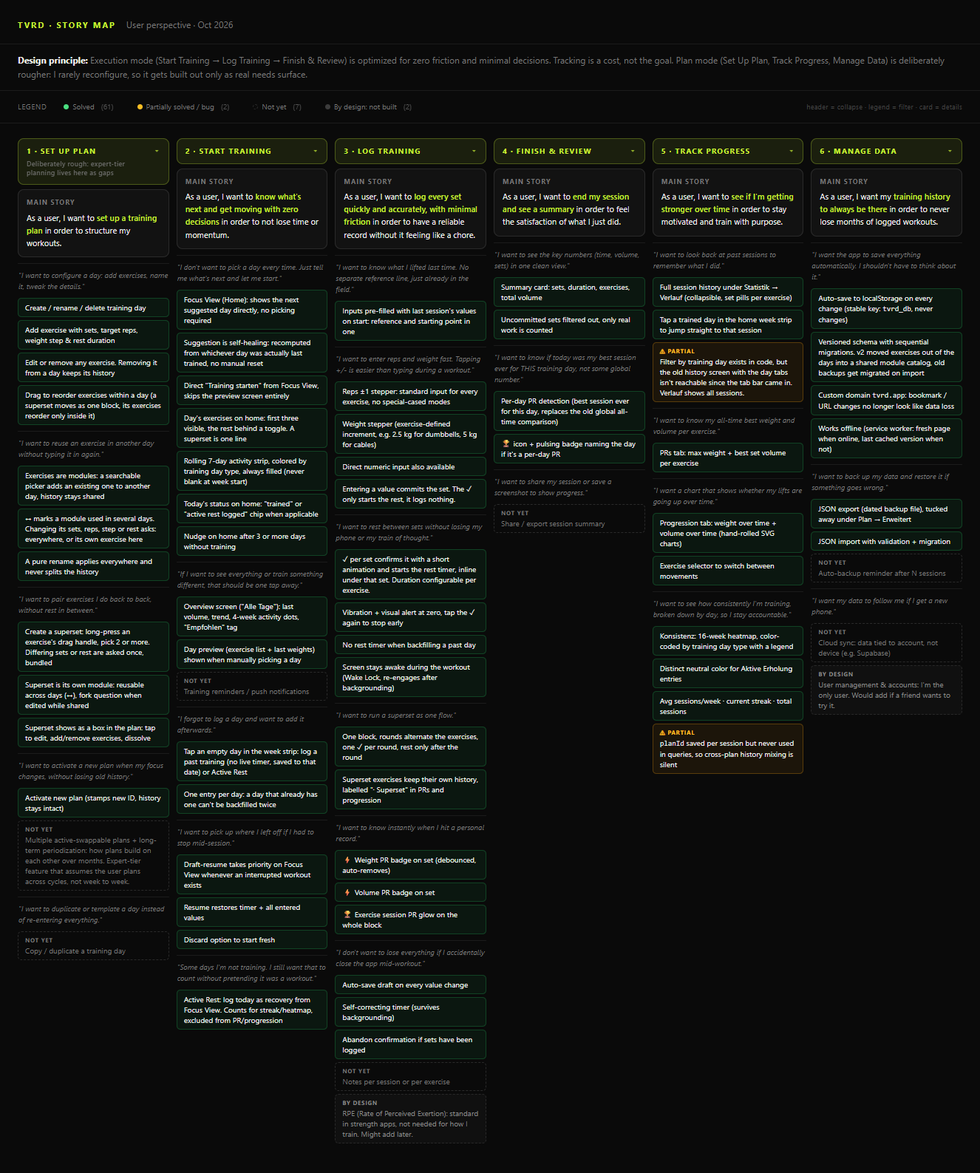
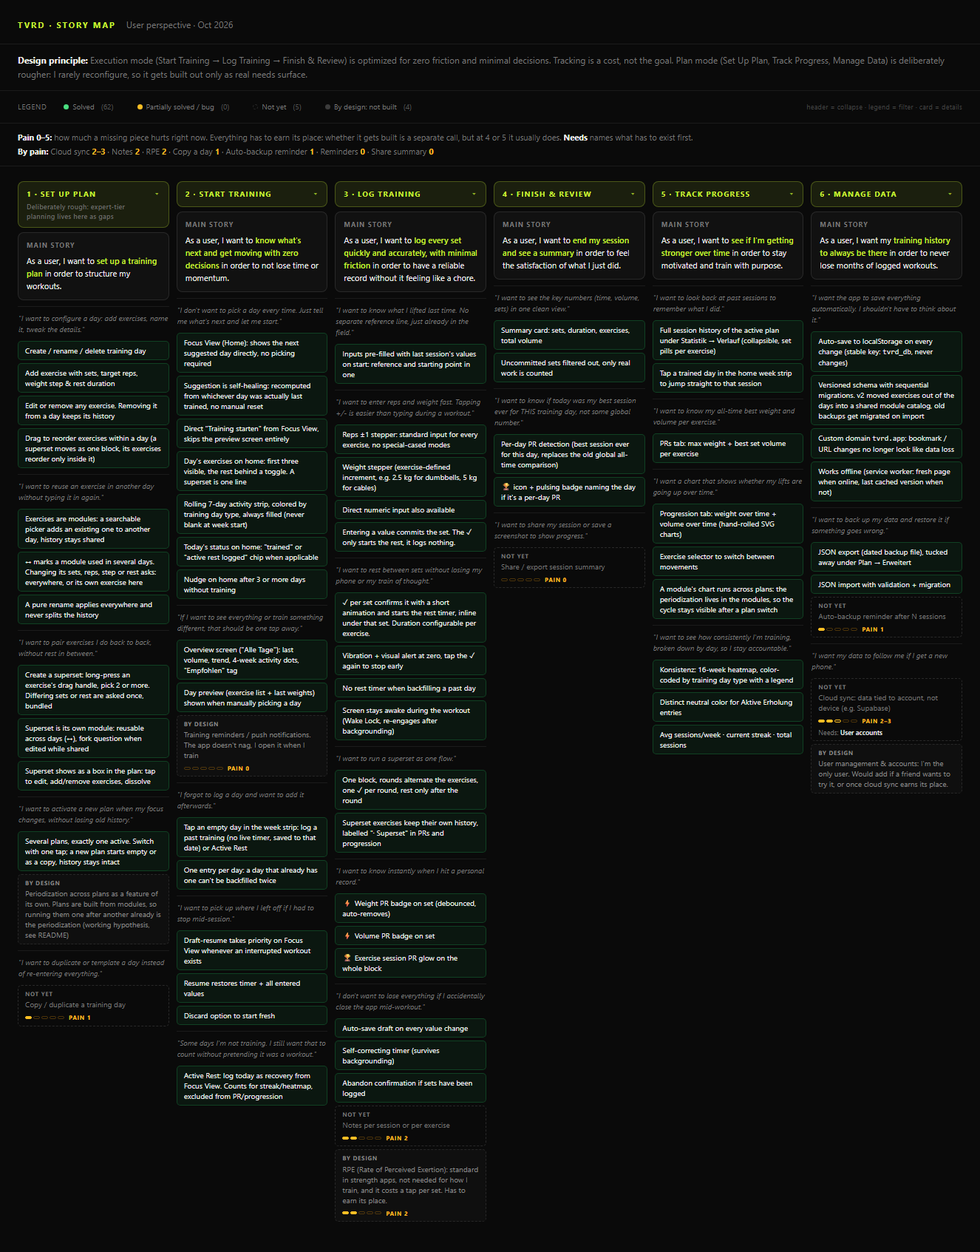
Working hypotheses, pain meter, progression across plans
- README: principle "Minimal input" replaces "Focus over features";
  "Good enough is perfect" now carries the pain scale (earn its place);
  new section "Working hypotheses" (commit by default, modules as
  building block, periodization via modules)
- Story map: pain meter 0-5 per open card, ranking bar, dependencies;
  reminders and cross-plan periodization by design; stale filter and
  planId cards removed; PNG re-rendered
- App: progression chart follows a module across plans

Changed region(s): [[0.0, 0.0, 0.9894, 0.988]]

diff --git a/docs/story-map.html b/docs/story-map.html
@@ -150,6 +150,25 @@
   .sm-modal-sub { font-size: 11px; color: var(--text-dim); font-style: italic; margin-bottom: 10px; line-height: 1.5; }
   .sm-modal-text { font-size: 13px; color: var(--text); line-height: 1.6; }
   .sm-modal-text code { background: var(--card); padding: 1px 5px; border-radius: 3px; font-size: 11px; }
+
+  /* ── Pain meter + dependencies (2026-10): data-pain="0..5" or "2-3", data-needs ── */
+  .pain { display: flex; align-items: center; gap: 2px; margin-top: 5px; font-size: 8px; font-weight: 700;
+    letter-spacing: .7px; text-transform: uppercase; color: var(--partial-text); }
+  .pain i { width: 9px; height: 4px; border-radius: 2px; border: 1px solid var(--partial-border); }
+  .pain i.on { background: var(--partial-text); border-color: var(--partial-text); }
+  .pain i.maybe { background: var(--partial-bg); border-color: var(--partial-text); }
+  .pain span { margin-left: 4px; }
+  .needs { margin-top: 3px; font-size: 9px; color: var(--text-dim); }
+  .needs b { color: var(--text); font-weight: 600; }
+  .sm-modal-text .pain { font-size: 10px; margin-top: 10px; }
+  .sm-modal-text .pain i { width: 14px; height: 6px; }
+  .sm-modal-text .needs { font-size: 11px; }
+  .pain-bar { padding: 10px 24px; border-bottom: 1px solid var(--border); font-size: 11px; color: var(--text-dim);
+    line-height: 1.7; }
+  .pain-bar b { color: var(--text); }
+  .pain-rank { cursor: pointer; white-space: nowrap; }
+  .pain-rank:hover { color: var(--text); }
+  .pain-rank em { font-style: normal; color: var(--partial-text); font-weight: 700; font-variant-numeric: tabular-nums; }
 </style>
 </head>
 <body>
@@ -170,6 +189,11 @@
   <span class="legend-item"><span class="ldot partial"></span>Partially solved / bug</span>
   <span class="legend-item"><span class="ldot gap"></span>Not yet</span>
   <span class="legend-item"><span class="ldot design"></span>By design: not built</span>
+</div>
+
+<div class="pain-bar">
+  <b>Pain 0–5:</b> how much a missing piece hurts right now. Everything has to earn its place: whether it gets built is a separate call, but at 4 or 5 it usually does. <b>Needs</b> names what has to exist first.
+  <div id="pain-ranking"></div>
 </div>
 
 <div class="map-scroll">
@@ -211,13 +235,13 @@
 
     <div class="sub-block">
       <div class="sub-story-text">"I want to activate a new plan when my focus changes, without losing old history."</div>
-      <div class="fc built">Activate new plan (stamps new ID, history stays intact)</div>
-      <div class="fc gap"><span class="tag">Not yet</span>Multiple active-swappable plans + long-term periodization: how plans build on each other over months. Expert-tier feature that assumes the user plans across cycles, not week to week.</div>
+      <div class="fc built">Several plans, exactly one active. Switch with one tap; a new plan starts empty or as a copy, history stays intact</div>
+      <div class="fc design"><span class="tag">By design</span>Periodization across plans as a feature of its own. Plans are built from modules, so running them one after another already is the periodization (working hypothesis, see README)</div>
     </div>
 
     <div class="sub-block">
       <div class="sub-story-text">"I want to duplicate or template a day instead of re-entering everything."</div>
-      <div class="fc gap"><span class="tag">Not yet</span>Copy / duplicate a training day</div>
+      <div class="fc gap" data-pain="1" data-short="Copy a day"><span class="tag">Not yet</span>Copy / duplicate a training day</div>
     </div>
   </div>
 
@@ -245,7 +269,7 @@
       <div class="sub-story-text">"If I want to see everything or train something different, that should be one tap away."</div>
       <div class="fc built">Overview screen ("Alle Tage"): last volume, trend, 4-week activity dots, "Empfohlen" tag</div>
       <div class="fc built">Day preview (exercise list + last weights) shown when manually picking a day</div>
-      <div class="fc gap"><span class="tag">Not yet</span>Training reminders / push notifications</div>
+      <div class="fc design" data-pain="0" data-short="Reminders"><span class="tag">By design</span>Training reminders / push notifications. The app doesn't nag, I open it when I train</div>
     </div>
 
     <div class="sub-block">
@@ -315,8 +339,8 @@
       <div class="fc built">Auto-save draft on every value change</div>
       <div class="fc built">Self-correcting timer (survives backgrounding)</div>
       <div class="fc built">Abandon confirmation if sets have been logged</div>
-      <div class="fc gap"><span class="tag">Not yet</span>Notes per session or per exercise</div>
-      <div class="fc design"><span class="tag">By design</span>RPE (Rate of Perceived Exertion): standard in strength apps, not needed for how I train. Might add later.</div>
+      <div class="fc gap" data-pain="2" data-short="Notes"><span class="tag">Not yet</span>Notes per session or per exercise</div>
+      <div class="fc design" data-pain="2" data-short="RPE"><span class="tag">By design</span>RPE (Rate of Perceived Exertion): standard in strength apps, not needed for how I train, and it costs a tap per set. Has to earn its place.</div>
     </div>
   </div>
 
@@ -343,7 +367,7 @@
 
     <div class="sub-block">
       <div class="sub-story-text">"I want to share my session or save a screenshot to show progress."</div>
-      <div class="fc gap"><span class="tag">Not yet</span>Share / export session summary</div>
+      <div class="fc gap" data-pain="0" data-short="Share summary"><span class="tag">Not yet</span>Share / export session summary</div>
     </div>
   </div>
 
@@ -358,9 +382,8 @@
 
     <div class="sub-block">
       <div class="sub-story-text">"I want to look back at past sessions to remember what I did."</div>
-      <div class="fc built">Full session history under Statistik → Verlauf (collapsible, set pills per exercise)</div>
+      <div class="fc built">Full session history of the active plan under Statistik → Verlauf (collapsible, set pills per exercise)</div>
       <div class="fc built">Tap a trained day in the home week strip to jump straight to that session</div>
-      <div class="fc partial"><span class="tag">⚠ Partial</span>Filter by training day exists in code, but the old history screen with the day tabs isn't reachable since the tab bar came in. Verlauf shows all sessions.</div>
     </div>
 
     <div class="sub-block">
@@ -372,6 +395,7 @@
       <div class="sub-story-text">"I want a chart that shows whether my lifts are going up over time."</div>
       <div class="fc built">Progression tab: weight over time + volume over time (hand-rolled SVG charts)</div>
       <div class="fc built">Exercise selector to switch between movements</div>
+      <div class="fc built">A module's chart runs across plans: the periodization lives in the modules, so the cycle stays visible after a plan switch</div>
     </div>
 
     <div class="sub-block">
@@ -379,7 +403,6 @@
       <div class="fc built">Konsistenz: 16-week heatmap, color-coded by training day type with a legend</div>
       <div class="fc built">Distinct neutral color for Aktive Erholung entries</div>
       <div class="fc built">Avg sessions/week · current streak · total sessions</div>
-      <div class="fc partial"><span class="tag">⚠ Partial</span><code>planId</code> saved per session but never used in queries, so cross-plan history mixing is silent</div>
     </div>
   </div>
 
@@ -404,13 +427,13 @@
       <div class="sub-story-text">"I want to back up my data and restore it if something goes wrong."</div>
       <div class="fc built">JSON export (dated backup file), tucked away under Plan → Erweitert</div>
       <div class="fc built">JSON import with validation + migration</div>
-      <div class="fc gap"><span class="tag">Not yet</span>Auto-backup reminder after N sessions</div>
+      <div class="fc gap" data-pain="1" data-short="Auto-backup reminder"><span class="tag">Not yet</span>Auto-backup reminder after N sessions</div>
     </div>
 
     <div class="sub-block">
       <div class="sub-story-text">"I want my data to follow me if I get a new phone."</div>
-      <div class="fc gap"><span class="tag">Not yet</span>Cloud sync: data tied to account, not device (e.g. Supabase)</div>
-      <div class="fc design"><span class="tag">By design</span>User management &amp; accounts: I'm the only user. Would add if a friend wants to try it.</div>
+      <div class="fc gap" data-pain="2-3" data-short="Cloud sync" data-needs="User accounts"><span class="tag">Not yet</span>Cloud sync: data tied to account, not device (e.g. Supabase)</div>
+      <div class="fc design"><span class="tag">By design</span>User management &amp; accounts: I'm the only user. Would add if a friend wants to try it, or once cloud sync earns its place.</div>
     </div>
   </div>
 </div>
@@ -524,6 +547,37 @@
     if (e.target === modal || e.target.classList.contains('sm-modal-close')) closeModal();
   });
   document.addEventListener('keydown', e => { if (e.key === 'Escape') closeModal(); });
+
+  // ── Pain meter + dependencies, rendered from data-pain / data-needs ──
+  // data-pain is 0..5 or a range like "2-3" (honest when unsure); the range
+  // shows its upper part as a lighter segment and ranks by the upper value.
+  const painRange = v => { const [lo, hi] = String(v).split('-').map(Number); return [lo, hi == null ? lo : hi]; };
+  const painCards = [...document.querySelectorAll('.fc[data-pain]')];
+  painCards.forEach(fc => {
+    const [lo, hi] = painRange(fc.dataset.pain);
+    const m = document.createElement('div');
+    m.className = 'pain';
+    m.setAttribute('aria-label', 'Pain ' + fc.dataset.pain.replace('-', ' to ') + ' of 5');
+    m.innerHTML = [0, 1, 2, 3, 4].map(i => '<i class="' + (i < lo ? 'on' : i < hi ? 'maybe' : '') + '"></i>').join('') +
+      '<span>Pain ' + fc.dataset.pain.replace('-', '–') + '</span>';
+    fc.appendChild(m);
+    if (fc.dataset.needs) {
+      const n = document.createElement('div');
+      n.className = 'needs';
+      n.innerHTML = 'Needs: <b>' + fc.dataset.needs + '</b>';
+      fc.appendChild(n);
+    }
+  });
+  const ranking = document.getElementById('pain-ranking');
+  if (ranking) {
+    const sorted = painCards.slice().sort((a, b) => painRange(b.dataset.pain)[1] - painRange(a.dataset.pain)[1] || painRange(b.dataset.pain)[0] - painRange(a.dataset.pain)[0]);
+    ranking.innerHTML = '<b>By pain:</b> ' + sorted.map((fc, i) =>
+      '<span class="pain-rank" data-i="' + painCards.indexOf(fc) + '">' + fc.dataset.short + ' <em>' + fc.dataset.pain.replace('-', '–') + '</em></span>').join(' · ');
+    ranking.addEventListener('click', e => {
+      const r = e.target.closest('.pain-rank');
+      if (r) openModal(painCards[+r.dataset.i]);
+    });
+  }
 
   // Wire each card: hover = tooltip, click = detail
   document.querySelectorAll('.fc').forEach(fc => {

diff --git a/index.html b/index.html
@@ -2185,8 +2185,9 @@ function getTodayEntries() {
 // ab, sie parallel zu tracken noch mehr. Wer andere Pläne sehen will, wechselt.
 // Aktive Erholung ist kein Training eines Plans und gilt planübergreifend
 // (Leo). Ebenfalls planübergreifend, weil sie zur Übung gehören, nicht zum
-// Plan: PR-Prüfung im Training und Vorwerte (Modul-History), dazu der Nudge
-// und "heute schon trainiert" (die messen, ob man überhaupt trainiert).
+// Plan: PR-Prüfung im Training, Vorwerte und die Progressions-Charts
+// (Modul-History), dazu der Nudge und "heute schon trainiert" (die messen,
+// ob man überhaupt trainiert).
 function planHistory() {
   return db.history.filter(h => !h.dayId || h.planId === db.activePlanId);
 }
@@ -4704,11 +4705,26 @@ function renderPRBoardHTML() {
   </div>`;
 }
 
-function renderProgressionHTML() {
-  const allExIds = new Map();
-  planHistory().forEach(s => s.exercises.forEach(ex => {
-    if (!allExIds.has(ex.exId)) allExIds.set(ex.exId, histExName(ex));
+// Progression zeigt ein Modul über alle Pläne hinweg. Leo 2026-10-23:
+// Periodisierung entsteht durch die Abfolge der Module in den Plänen, nicht
+// durch ein eigenes Feature. Stehen Module nacheinander in Trainingsplänen,
+// ist das schon die Periodisierung. Darum muss die Kurve eines Moduls über
+// einen Planwechsel durchlaufen. Zur Auswahl stehen die Module des aktiven
+// Plans plus alles, was in ihm trainiert wurde, sofern es History hat.
+function progressionExIds() {
+  const ids = new Set();
+  db.plan.days.forEach(day => dayFlatExercises(day).forEach(ex =>
+    ids.add(ex.ss ? ssHistId(ex.ss, ex.id) : ex.id)));
+  planHistory().forEach(s => s.exercises.forEach(ex => ids.add(ex.exId)));
+  const out = new Map();
+  db.history.forEach(s => s.exercises.forEach(ex => {
+    if (ids.has(ex.exId) && ex.sets.length && !out.has(ex.exId)) out.set(ex.exId, histExName(ex));
   }));
+  return out;
+}
+
+function renderProgressionHTML() {
+  const allExIds = progressionExIds();
   const diffs = statDiffLabels([...allExIds.entries()]);
   const options = [...allExIds.entries()].map(([id, name]) =>
     `<option value="${id}">${name}${diffs.get(id) ? ' (' + diffs.get(id) + ')' : ''}</option>`).join('');
@@ -4731,8 +4747,8 @@ function setupProgSelect() {
 function renderProgCharts(exId) {
   const container = document.getElementById('prog-charts');
   if (!container || !exId) return;
-  const data = planHistory()
-    .filter(s => s.exercises.some(e => e.exId === exId))
+  const data = db.history
+    .filter(s => s.exercises.some(e => e.exId === exId && e.sets.length))
     .sort((a, b) => a.date - b.date)
     .map(s => {
       const ex = s.exercises.find(e => e.exId === exId);

diff --git a/README.md b/README.md
@@ -26,13 +26,25 @@ That changed once the function was genuinely done. The app worked exactly how I 
 
 Four principles set the direction from the beginning. Each one has a specific place in the product where it shows up.
 
-**Focus over features.** Only what supports the actual training. No social feed, no gamification loops, no muscle-group encyclopedia. The home screen has one primary action.
+**Minimal input.** Logging should cost as few taps as possible, even if the record ends up less detailed. Any feature that touches logging has to answer one question first: does it cut taps? That's why there's no RPE rating per set and, so far, no notes. If RPE ever reaches a 4 or 5 on the pain scale below, it gets built, taps and all.
 
 **Function first, form second, in that order, not instead of.** Every hour spent on polish while the function still had friction would have been an hour spent wrong. So the design stayed MVP-grade on purpose until the app genuinely did its job. Then form got its own pass, with the same rule applied to it: nothing that costs a tap during a set.
 
-**Good enough is perfect.** I build when a real need surfaces, not before. Cloud sync isn't there because I train on one device. Cost/benefit, not completeness.
+**Good enough is perfect.** I build when a real need surfaces, not before. Cloud sync isn't there because I train on one device. Cost/benefit, not completeness. Everything has to earn its place: each open item on the [story map](#user-story-map) carries a pain value from 0 to 5, how much its absence hurts right now. Whether it gets built is a separate call, but at 4 or 5 it usually does.
 
 **Built for heavy users.** Assumes someone who trains often and knows their weights. Preset weight increments per exercise (2.5 kg for dumbbells, 5 kg for cables), no onboarding flow, no explainer overlays. If you don't already know what a "set" is, this isn't for you.
+
+---
+
+## Working hypotheses
+
+The bigger product decisions are working hypotheses. The evidence is my own daily use, so n=1.
+
+**Sets count as logged by default.** *(Sep 2026)* Pre-filled sets are logged from the start, and I only touch what differs. The alternative, where nothing counts until confirmed, costs a tap per set. What followed: the per-exercise progress bar started full every time, so it went. A light tint marking logged sets went unnoticed in use, so now the exception is marked instead: a set without a value shows a dashed field. *Status: holds.*
+
+**The exercise module is the building block.** *(Sep 2026)* An exercise is a module with its own parameters and its own history, independent of the day or plan it sits in. Same movement with the same parameters is one module. Different parameters make a different one, and a superset is a module of its own. History was already stored per exercise, so the switch needed no data migration. *Status: has held up so far.*
+
+**Periodization comes from the modules.** *(Oct 2026)* Plans are built from modules, and a module keeps its history from plan to plan. Running plans one after another already is periodization, so a separate layer for planning across plans would add nothing. I keep several plans and switch with one tap, and the progression chart follows a module across plans, so the cycle stays visible. *Status: follows from the module hypothesis.*
 
 ---
 
@@ -130,7 +142,7 @@ That's the loop. I bring the ground truth and the judgment, the AI brings the im
 
 ## User story map
 
-The full picture of what the app is trying to do for the user, broken down across the whole training journey: solved, partial, deliberately not built, still on the list.
+The full picture of what the app is trying to do for the user, broken down across the whole training journey: solved, partial, deliberately not built, still on the list. Every open item carries its pain value and what it depends on.
 
 <a href="https://tvrd.app/docs/story-map.html">
   <img src="docs/story-map.png" alt="TVRD user story map: six activity columns from Set Up Plan through Manage Data, each with a main user story, sub-stories, and cards showing what's solved, partial, not yet built, or deliberately left out">
@@ -148,7 +160,7 @@ Supersets live here too. Long-press the drag handle of an exercise, check the on
 
 It did inherit the full visual treatment, though. That fell out of doing the design work at the token layer instead of screen by screen.
 
-**Plans.** I can keep several plans, but exactly one is active. Home, history and stats only show that one, because a plan follows one goal and tracking two at once splits the focus. Switching is one tap on the plan name. A new plan starts empty or as a copy and doesn't activate itself, the app asks at the end. Exercises stay modules across plans, so a copy keeps their history and PRs. Long-term periodization across plans is still on the list, not built.
+**Plans.** I can keep several plans, but exactly one is active. Home, history and stats only show that one, because a plan follows one goal and tracking two at once splits the focus. The exception is the progression chart, which follows a module across plans. Switching is one tap on the plan name. A new plan starts empty or as a copy and doesn't activate itself, the app asks at the end. Exercises stay modules across plans, so a copy keeps their history and PRs. Periodization across plans isn't a feature of its own, see [working hypotheses](#working-hypotheses).
 
 ---
 
@@ -156,10 +168,11 @@ It did inherit the full visual treatment, though. That fell out of doing the des
 
 At n=1, knowing what to leave out is most of the work.
 
+- **Social feed, gamification loops, a muscle-group encyclopedia.** Only what supports the actual training gets in. The home screen has one primary action.
 - **Cloud sync.** `localStorage` only. A backend would let data survive a new phone; for a single-device personal tool the complexity isn't worth it yet.
 - **Running several plans in parallel.** I can keep several, but only one is active at a time. See above.
 - **User management / accounts.** I'm the only user. Would add if a friend wants to try it.
-- **RPE (Rate of Perceived Exertion).** Standard in strength apps, where the user tags each set with how hard it felt. Useful for programming, not for how I currently train. Might add later.
+- **RPE (Rate of Perceived Exertion).** Standard in strength apps, where the user tags each set with how hard it felt. Useful for programming, not for how I currently train, and it costs a tap per set. Pain 2 right now.
 - **Reminders / notifications.** The app doesn't nag. I open it when I train.
 - **Per-muscle-group analytics.** Interesting, not needed for how I actually use it.
 

diff --git a/story-map.md b/story-map.md
@@ -5,6 +5,10 @@ Status quo · Oct 2026 · interactive version: [docs/story-map.html](docs/story-
 
 Legend: ✅ solved · ⚠ partially solved / bug · 💡 not yet · 🚫 by design: not built
 
+**Pain 0–5:** how much a missing piece hurts right now. Everything has to earn its place: whether it gets built is a separate call, but at 4 or 5 it usually does. **Needs** names what has to exist first.
+
+**By pain:** Cloud sync 2–3 · Notes 2 · RPE 2 · Copy a day 1 · Auto-backup reminder 1 · Reminders 0 · Share summary 0
+
 ---
 
 ## 1. Set Up Plan
@@ -29,11 +33,11 @@ As a user, I want to **set up a training plan** in order to structure my workout
 - ✅ Superset shows as a box in the plan: tap to edit, add/remove exercises, dissolve
 
 **"I want to activate a new plan when my focus changes, without losing old history."**
-- ✅ Activate new plan (stamps new ID, history stays intact)
-- 💡 Multiple active-swappable plans + long-term periodization: how plans build on each other over months. Expert-tier feature that assumes the user plans across cycles, not week to week.
+- ✅ Several plans, exactly one active. Switch with one tap; a new plan starts empty or as a copy, history stays intact
+- 🚫 Periodization across plans as a feature of its own. Plans are built from modules, so running them one after another already is the periodization (working hypothesis, see README)
 
 **"I want to duplicate or template a day instead of re-entering everything."**
-- 💡 Copy / duplicate a training day
+- 💡 Copy / duplicate a training day · Pain 1
 
 ---
 
@@ -53,7 +57,7 @@ As a user, I want to **know what's next and get moving with zero decisions** in 
 **"If I want to see everything or train something different, that should be one tap away."**
 - ✅ Overview screen ("Alle Tage"): last volume, trend, 4-week activity dots, "Empfohlen" tag
 - ✅ Day preview (exercise list + last weights) shown when manually picking a day
-- 💡 Training reminders / push notifications
+- 🚫 Training reminders / push notifications. The app doesn't nag, I open it when I train · Pain 0
 
 **"I forgot to log a day and want to add it afterwards."**
 - ✅ Tap an empty day in the week strip: log a past training (no live timer, saved to that date) or Active Rest
@@ -101,8 +105,8 @@ As a user, I want to **log every set quickly and accurately, with minimal fricti
 - ✅ Auto-save draft on every value change
 - ✅ Self-correcting timer (survives backgrounding)
 - ✅ Abandon confirmation if sets have been logged
-- 💡 Notes per session or per exercise
-- 🚫 RPE (Rate of Perceived Exertion): standard in strength apps, not needed for how I train. Might add later.
+- 💡 Notes per session or per exercise · Pain 2
+- 🚫 RPE (Rate of Perceived Exertion): standard in strength apps, not needed for how I train, and it costs a tap per set. Has to earn its place. · Pain 2
 
 ---
 
@@ -119,7 +123,7 @@ As a user, I want to **end my session and see a summary** in order to feel the s
 - ✅ 🏆 icon + pulsing badge naming the day if it's a per-day PR
 
 **"I want to share my session or save a screenshot to show progress."**
-- 💡 Share / export session summary
+- 💡 Share / export session summary · Pain 0
 
 ---
 
@@ -128,9 +132,8 @@ As a user, I want to **end my session and see a summary** in order to feel the s
 As a user, I want to **see if I'm getting stronger over time** in order to stay motivated and train with purpose.
 
 **"I want to look back at past sessions to remember what I did."**
-- ✅ Full session history under Statistik → Verlauf (collapsible, set pills per exercise)
+- ✅ Full session history of the active plan under Statistik → Verlauf (collapsible, set pills per exercise)
 - ✅ Tap a trained day in the home week strip to jump straight to that session
-- ⚠ Filter by training day exists in code, but the old history screen with the day tabs isn't reachable since the tab bar came in. Verlauf shows all sessions.
 
 **"I want to know my all-time best weight and volume per exercise."**
 - ✅ PRs tab: max weight + best set volume per exercise
@@ -138,12 +141,12 @@ As a user, I want to **see if I'm getting stronger over time** in order to stay 
 **"I want a chart that shows whether my lifts are going up over time."**
 - ✅ Progression tab: weight over time + volume over time (hand-rolled SVG charts)
 - ✅ Exercise selector to switch between movements
+- ✅ A module's chart runs across plans: the periodization lives in the modules, so the cycle stays visible after a plan switch
 
 **"I want to see how consistently I'm training, broken down by day, so I stay accountable."**
 - ✅ Konsistenz: 16-week heatmap, color-coded by training day type with a legend
 - ✅ Distinct neutral color for Aktive Erholung entries
 - ✅ Avg sessions/week · current streak · total sessions
-- ⚠ `planId` saved per session but never used in queries, so cross-plan history mixing is silent
 
 ---
 
@@ -160,8 +163,8 @@ As a user, I want my **training history to always be there** in order to never l
 **"I want to back up my data and restore it if something goes wrong."**
 - ✅ JSON export (dated backup file), tucked away under Plan → Erweitert
 - ✅ JSON import with validation + migration
-- 💡 Auto-backup reminder after N sessions
+- 💡 Auto-backup reminder after N sessions · Pain 1
 
 **"I want my data to follow me if I get a new phone."**
-- 💡 Cloud sync: data tied to account, not device (e.g. Supabase)
-- 🚫 User management & accounts: I'm the only user. Would add if a friend wants to try it.
+- 💡 Cloud sync: data tied to account, not device (e.g. Supabase) · Pain 2–3 · Needs: user accounts
+- 🚫 User management & accounts: I'm the only user. Would add if a friend wants to try it, or once cloud sync earns its place.
